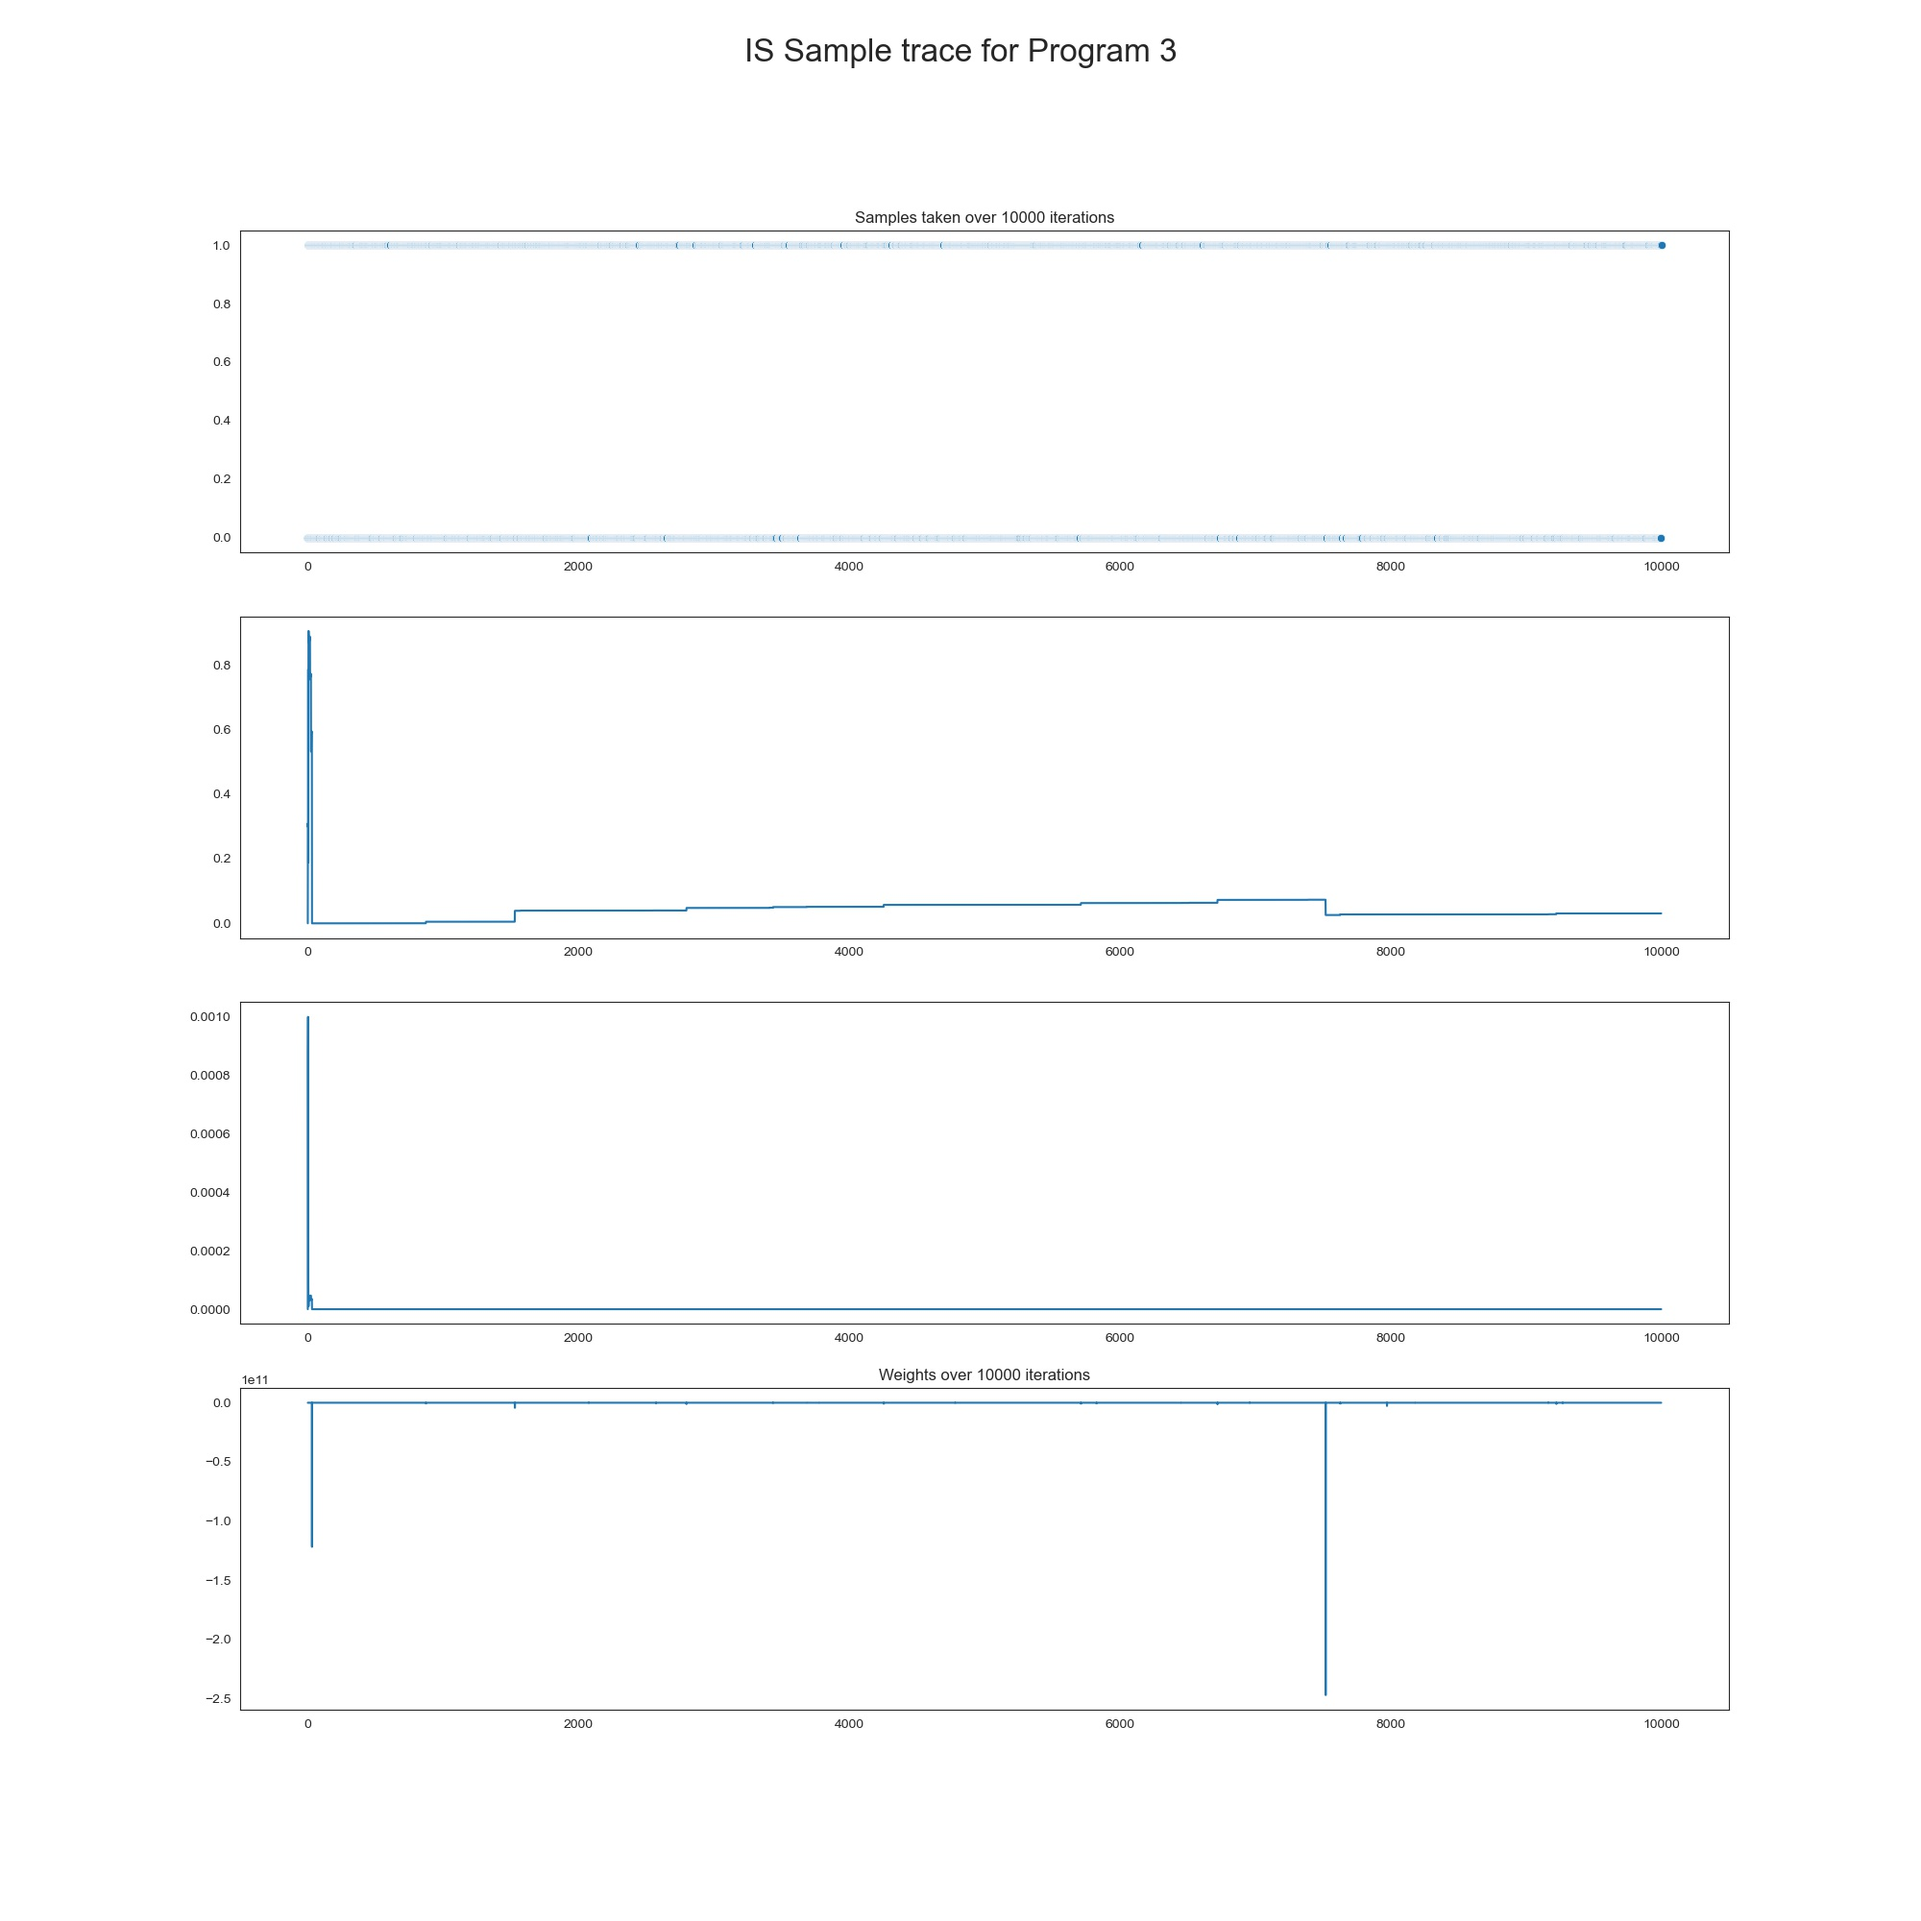
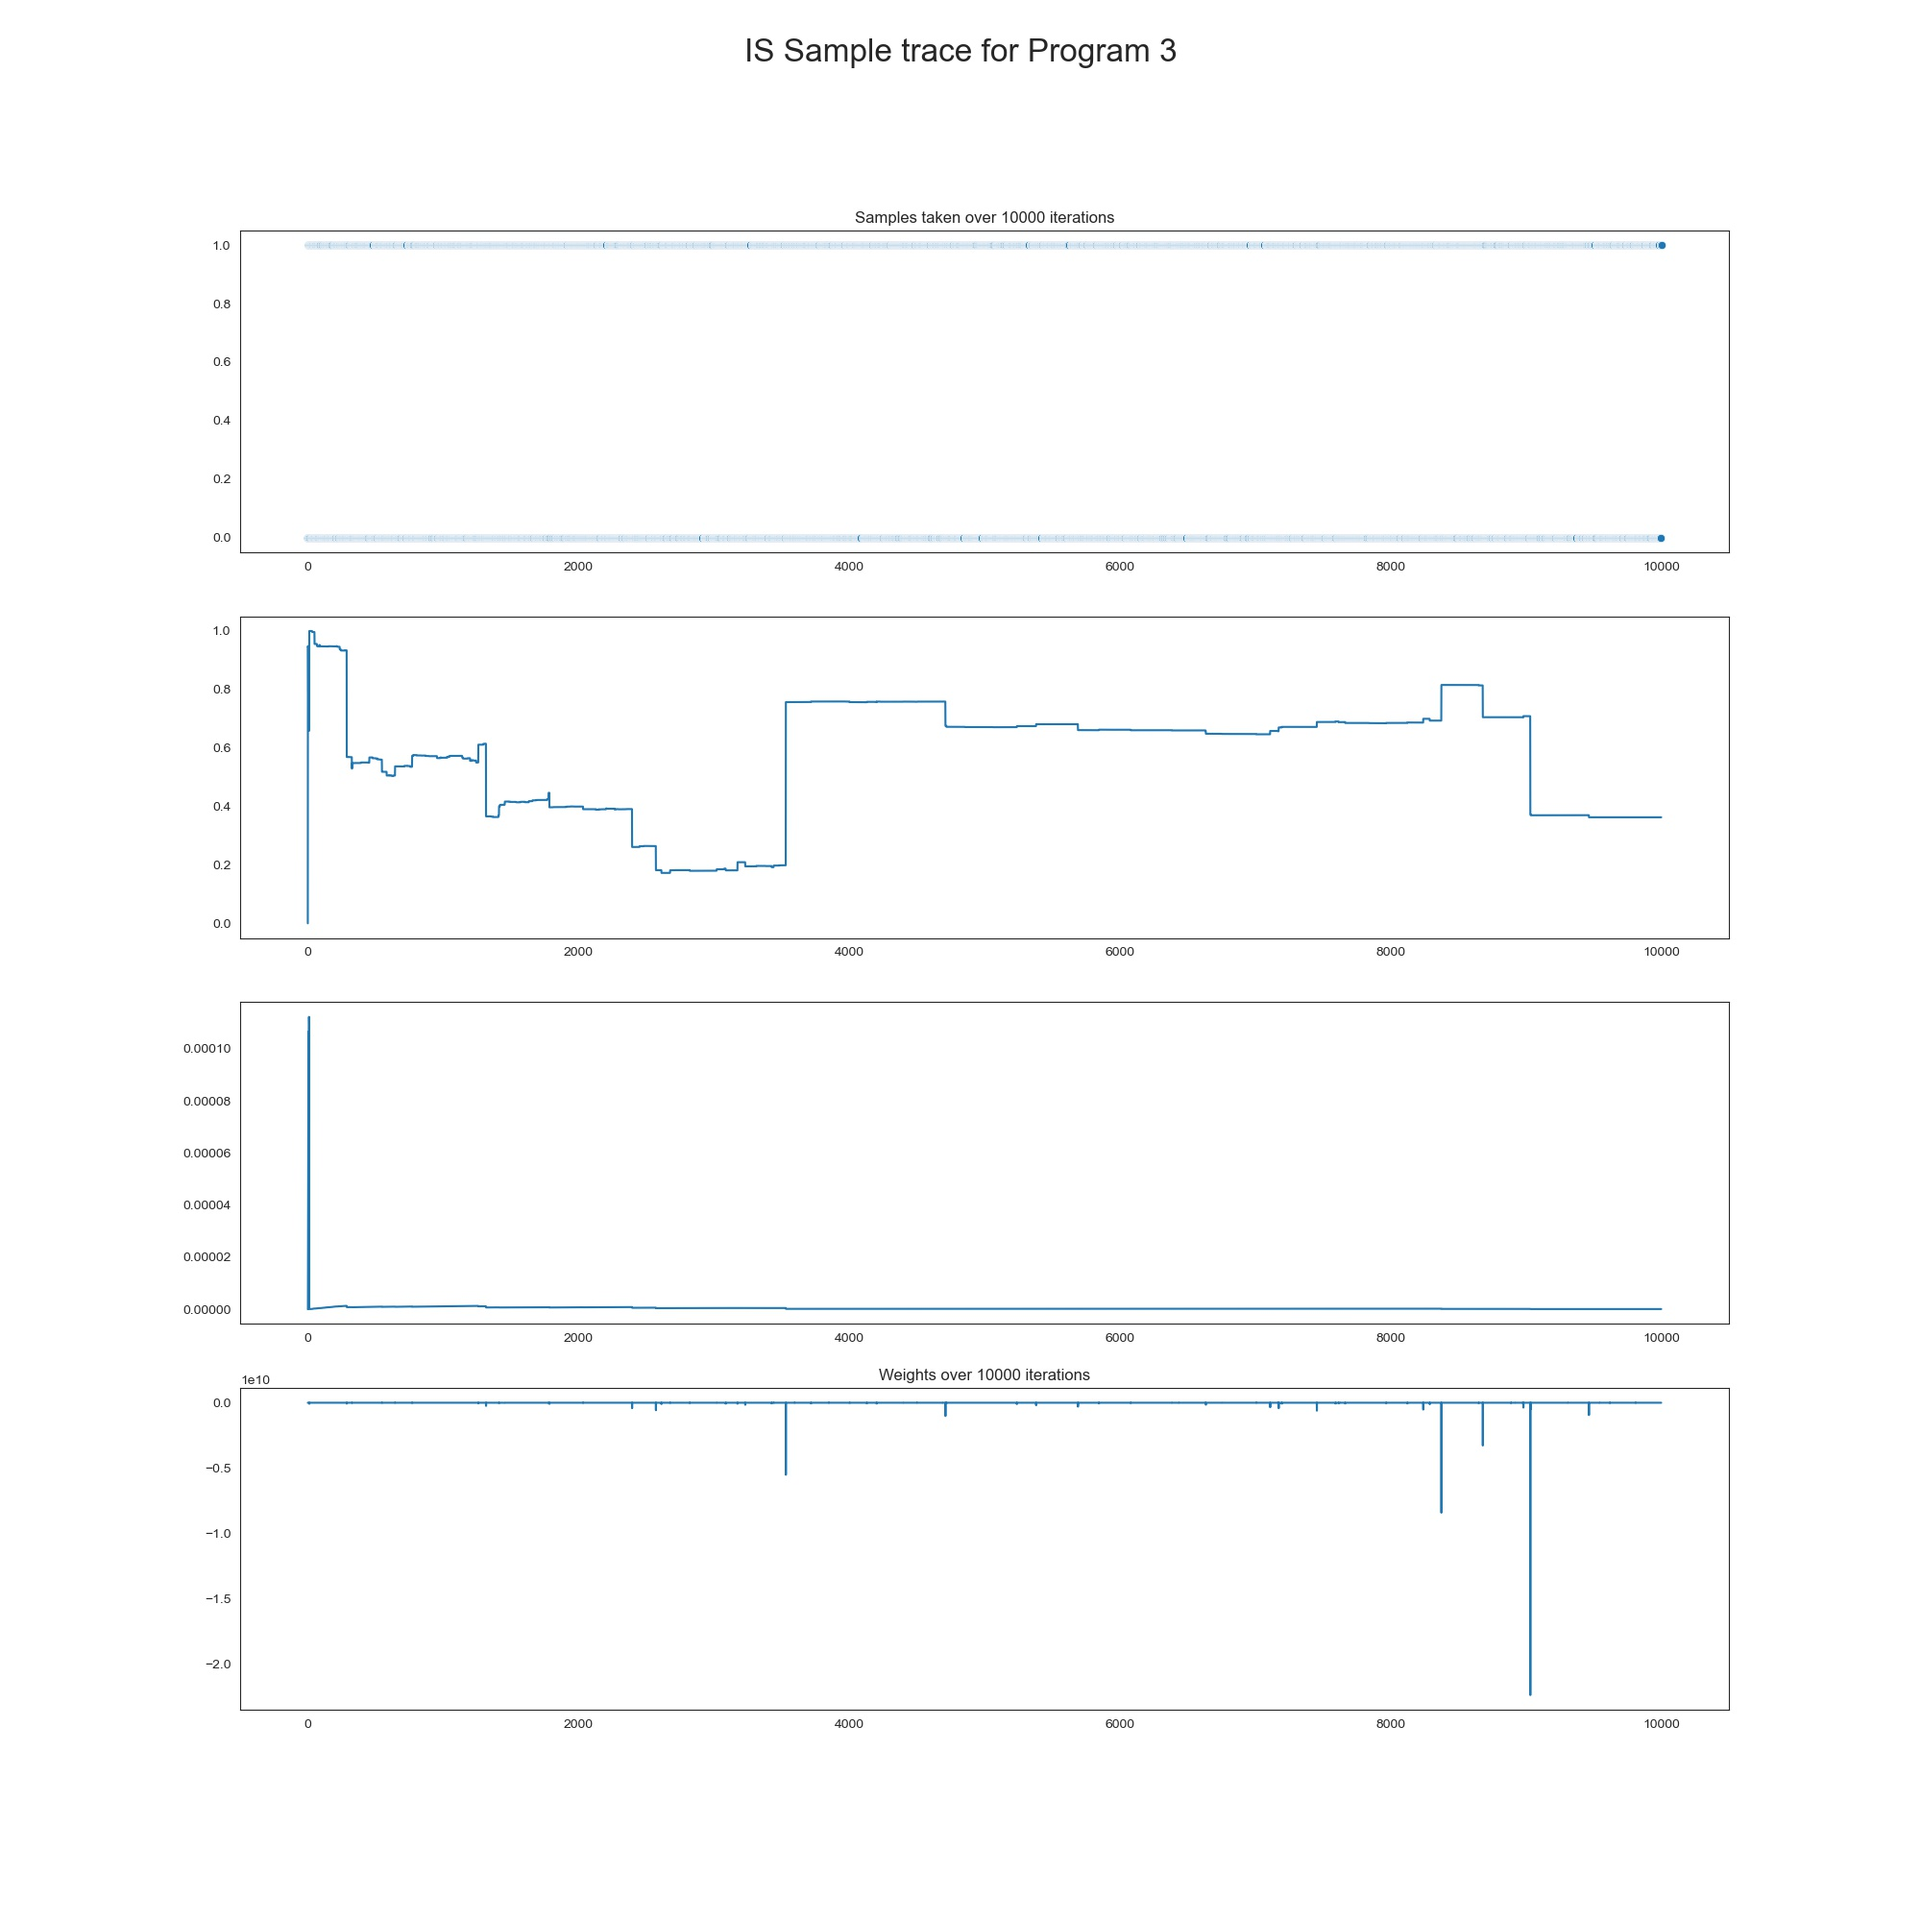
hw 3 complete

diff --git a/graph_based_sampling.py b/graph_based_sampling.py
@@ -9,6 +9,17 @@ from evaluation_based_sampling import evaluate_program_help
 
 dirn = os.path.dirname(os.path.abspath(__file__))
 
+class Dirac:
+    def __init__(self, val):
+        self.x = val
+
+    def sample(self):
+        return
+    
+    def log_prob(self, y):
+        return torch.log(1 / (self.x - y))
+
+
 # Put all function mappings from the deterministic language environment to your
 # Python evaluation context here:
 env = { 'sqrt': lambda * x: torch.sqrt(torch.FloatTensor(x)),
@@ -39,7 +50,7 @@ env = { 'sqrt': lambda * x: torch.sqrt(torch.FloatTensor(x)),
         'flip': dist.bernoulli.Bernoulli,
         'dirichlet': dist.dirichlet.Dirichlet,
         'gamma' : dist.gamma.Gamma,
-        'dirac': lambda *x: print(x),
+        'dirac': lambda x: Dirac(x),
         'discrete': lambda a: dist.categorical.Categorical(torch.flatten(a)),
         'mat-transpose': lambda t: torch.transpose(t,0,1),
         'mat-repmat': lambda t,d0,d1: t.repeat(d0,d1),
@@ -106,6 +117,8 @@ def evaluate_graph(graph, observe=True):
     for v in var_order:
         link_fn = G['P'][v]
         if not observe and link_fn[0] == 'observe*':
+            dist, sig = evaluate_program_help(link_fn[1], env)
+            env[v] = dist
             continue
         # store result
         dist, _ = evaluate_program_help(link_fn[1], env)

diff --git a/primitives.py b/primitives.py
@@ -5,15 +5,15 @@ from collections.abc import Iterable
 import torch.distributions as dist
 
 
-class Dirac:
+class Dirac(torch.distributions.Distribution):
     def __init__(self, val):
         self.x = val
 
     def sample(self):
         return
     
-    def observe(self, y):
-        return 1 / (self.x - y)
+    def log_prob(self, y):
+        return torch.log(1 / (self.x - y))
 
 def append(a,e):
     try:
@@ -85,7 +85,7 @@ context = { 'sqrt': lambda * x: torch.sqrt(torch.FloatTensor(x)),
             'flip': dist.bernoulli.Bernoulli,
             'dirichlet': dist.dirichlet.Dirichlet,
             'gamma' : dist.gamma.Gamma,
-            'dirac': lambda *x: print(x),
+            'dirac': lambda x: Dirac(x),
             'discrete': lambda a: dist.categorical.Categorical(torch.flatten(a)),
             'mat-transpose': lambda t: t.t(),
             'mat-repmat': lambda t,d0,d1: t.repeat(d0,d1),

diff --git a/run_samples.py b/run_samples.py
@@ -23,7 +23,7 @@ if __name__ == '__main__':
 
         print('running for {} iterations'.format(iter))
 
-        if i == 1 or i == 2 or i == 5:
+        if i == 1 or i == 2:
 
             start_time = time.time()
             samples, jll = hmc_init(copy.deepcopy(graph), iter, T, eps)
